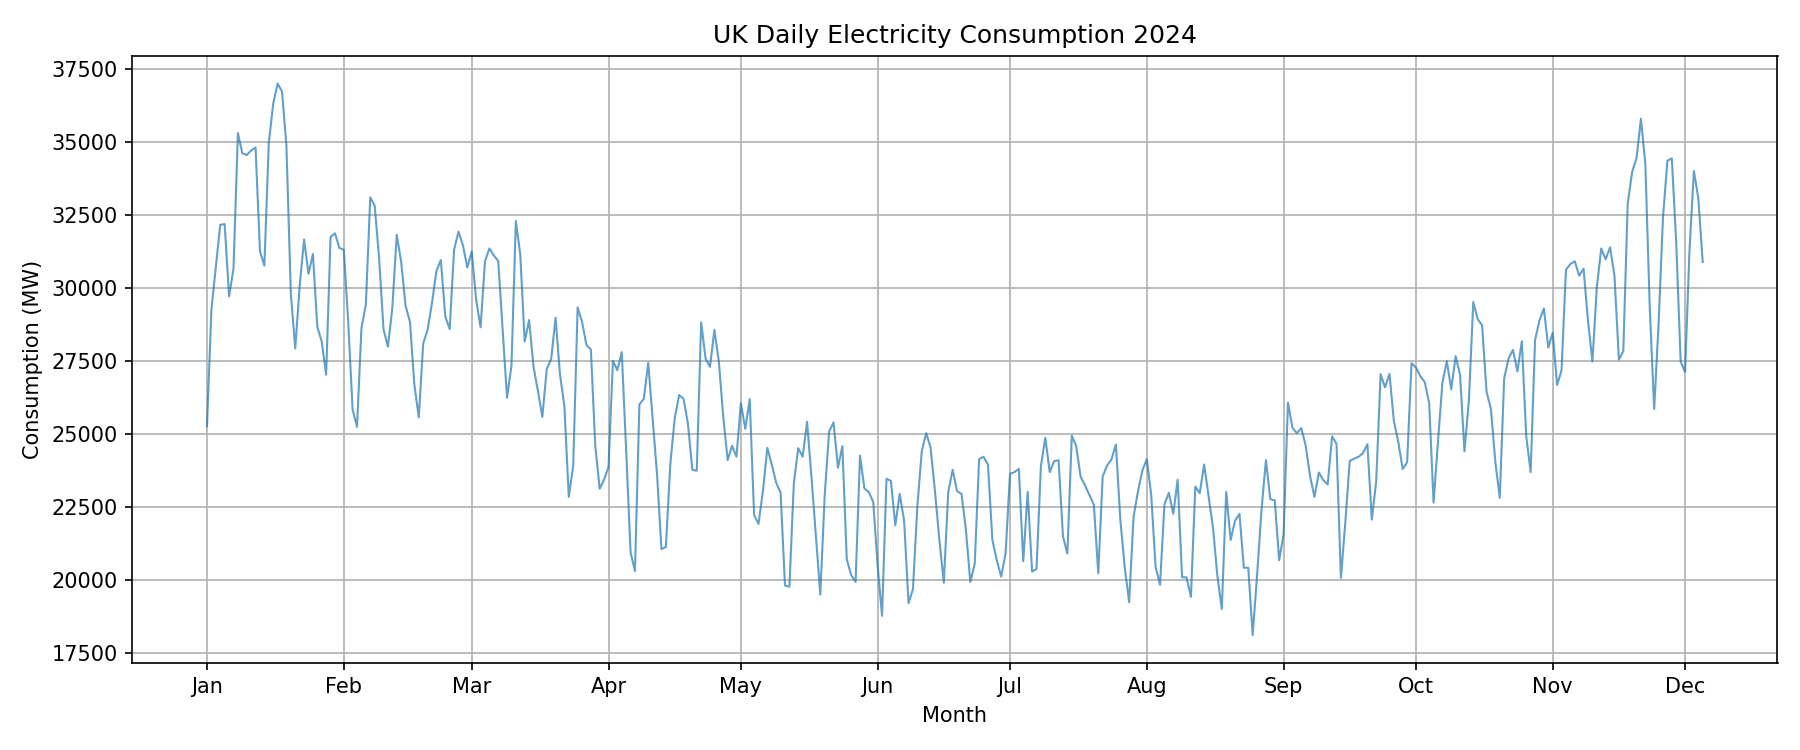
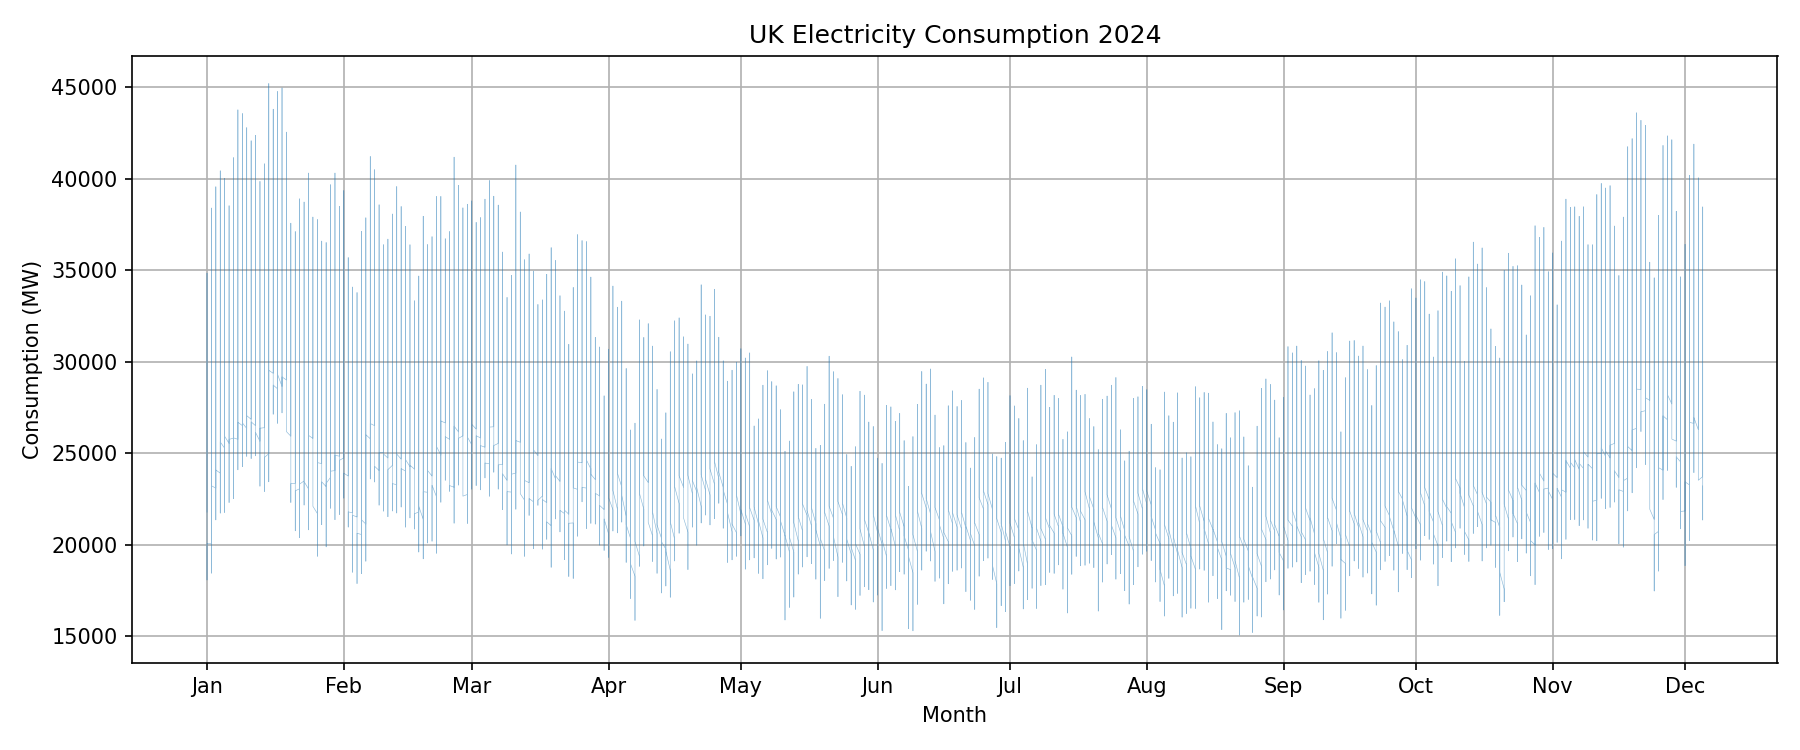
Refactor code to only look at 2024 data, and use 48 as period instead to capture the daily seasonality.

diff --git a/estimate_parameters.py b/estimate_parameters.py
@@ -2,43 +2,41 @@ import numpy as np
 import pandas as pd
 import matplotlib.pyplot as plt
 
-df = pd.read_csv("data/input/historic_demand_2009_2024.csv", parse_dates=["settlement_date"])
-daily_df = df.groupby("settlement_date")["nd"].mean().reset_index()
-daily_df.columns = ["date", "nd"]
-daily_df = daily_df.sort_values("date").reset_index(drop=True)
+d = 48
 
-# Trend m_t: yearly moving average (1.5.5 in the book)
-daily_df["trend"] = daily_df["nd"].rolling(window=365, center=True, min_periods=365).mean()
+df = pd.read_csv("data/input/historic_demand_year_2024.csv", parse_dates=["settlement_date"])
+df = df.sort_values(["settlement_date", "settlement_period"]).reset_index(drop=True)
 
-# W_k: mean detrended value per day-of-year
-daily_df["detrended"] = daily_df["nd"] - daily_df["trend"]
-daily_df["doy"] = daily_df["date"].dt.day_of_year
-W = daily_df.groupby("doy")["detrended"].mean()
+# Trend m_t: moving average over one full day (d=48) centered
+df["trend"] = df["nd"].rolling(window=d, center=True, min_periods=d).mean()
+
+# W_k: mean detrended value per settlement period (1–48)
+df["detrended"] = df["nd"] - df["trend"]
+W = df.groupby("settlement_period")["detrended"].mean()
 
 # s_k = W_k - mean(W)
 s = W - W.mean()
-daily_df["seasonality"] = daily_df["doy"].map(s)
+df["seasonality"] = df["settlement_period"].map(s)
 
 # Deseasonalized and residual
-daily_df["deseasonalized"] = daily_df["nd"] - daily_df["seasonality"]
-daily_df["residual"] = daily_df["nd"] - daily_df["trend"] - daily_df["seasonality"]
+df["deseasonalized"] = df["nd"] - df["seasonality"]
+df["residual"] = df["nd"] - df["trend"] - df["seasonality"]
 
 # --- Polynomial fit (degree 3) to deseasonalized data ---
-N = len(daily_df)
+N = len(df)
 t = np.arange(N) / (N - 1)
-mask = daily_df["deseasonalized"].notna()
-poly_coeffs = np.polyfit(t[mask], daily_df["deseasonalized"][mask], deg=3)
+mask = df["deseasonalized"].notna()
+poly_coeffs = np.polyfit(t[mask], df["deseasonalized"][mask], deg=3)
 poly_fit = np.polyval(poly_coeffs, t)
 
-# --- Harmonic fit (k=1) to seasonal component ---
-# s_t = a0 + a1*cos(2*pi*t/365) + b1*sin(2*pi*t/365)
-doy = daily_df["doy"].values
+# --- Harmonic fit (k=1) to seasonal component, period d=48 ---
+sp = df["settlement_period"].values
 X = np.column_stack([
-    np.ones(len(doy)),
-    np.cos(2 * np.pi * doy / 365),
-    np.sin(2 * np.pi * doy / 365),
+    np.ones(len(sp)),
+    np.cos(2 * np.pi * sp / d),
+    np.sin(2 * np.pi * sp / d),
 ])
-harm_coeffs, _, _, _ = np.linalg.lstsq(X, daily_df["seasonality"].values, rcond=None)
+harm_coeffs, _, _, _ = np.linalg.lstsq(X, df["seasonality"].values, rcond=None)
 harm_fit = X @ harm_coeffs
 
 # Format polynomial label with coefficients
@@ -50,45 +48,38 @@ poly_label = rf"$\hat{{m}}_t = {a0} {signed(a1)} t {signed(a2)} t^2 {signed(a3)}
 # Format harmonic label with coefficients
 h0, h1, b1 = [round(c) for c in harm_coeffs]
 harm_label = (
-    rf"$\hat{{s}}_t = {h0} {signed(h1)} \cdot \cos\!\left(\frac{{2\pi t}}{{365}}\right)"
-    rf" {signed(b1)} \cdot \sin\!\left(\frac{{2\pi t}}{{365}}\right)$"
+    rf"$\hat{{s}}_t = {h0} {signed(h1)} \cdot \cos\!\left(\frac{{2\pi t}}{{{d}}}\right)"
+    rf" {signed(b1)} \cdot \sin\!\left(\frac{{2\pi t}}{{{d}}}\right)$"
 )
+
+dates = df["settlement_date"]
+month_ticks = pd.date_range("2024-01-01", periods=12, freq="MS")
+month_labels = ["Jan","Feb","Mar","Apr","May","Jun","Jul","Aug","Sep","Oct","Nov","Dec"]
 
 # Deseasonalized with polynomial fit
 plt.figure(figsize=(14, 5))
-plt.plot(daily_df["date"], daily_df["deseasonalized"], linewidth=0.5, alpha=0.7, label="Deseasonalized data")
-plt.plot(daily_df["date"], poly_fit, linewidth=1.5, color="tab:red", label=poly_label)
-plt.xlabel("Year")
+plt.plot(dates, df["deseasonalized"], linewidth=0.3, alpha=0.5, label="Deseasonalized data")
+plt.plot(dates, poly_fit, linewidth=1.5, color="tab:red", label=poly_label)
+plt.xticks(ticks=month_ticks, labels=month_labels)
+plt.xlabel("Month")
 plt.ylabel("Consumption (MW)")
-plt.title("UK Daily Electricity Consumption 2009–2024 (Deseasonalized)")
-plt.legend()
+plt.title("UK Electricity Consumption 2024 (Deseasonalized)")
+leg = plt.legend()
+leg.legend_handles[0].set_linewidth(1.5)
 plt.grid(True)
 plt.tight_layout()
 plt.savefig("data/output/deseasonalized.png", dpi=150)
 plt.close()
 print("Saved to data/output/deseasonalized.png")
 
-# Seasonal component with harmonic fit
-plt.figure(figsize=(14, 5))
-plt.plot(daily_df["date"], daily_df["seasonality"], linewidth=0.5, alpha=0.7, label="Seasonal data")
-plt.plot(daily_df["date"], harm_fit, linewidth=1.5, color="tab:red", label=harm_label)
-plt.xlabel("Year")
-plt.ylabel("Consumption (MW)")
-plt.title("UK Daily Electricity Consumption 2009–2024 (Seasonal Component)")
-plt.legend()
-plt.grid(True)
-plt.tight_layout()
-plt.savefig("data/output/seasonality.png", dpi=150)
-plt.close()
-print("Saved to data/output/seasonality.png")
-
 # Residual
 plt.figure(figsize=(14, 5))
-plt.plot(daily_df["date"], daily_df["residual"], linewidth=0.5, alpha=0.7)
+plt.plot(dates, df["residual"], linewidth=0.3, alpha=0.5)
 plt.axhline(0, color="black", linewidth=0.8, linestyle="--")
-plt.xlabel("Year")
+plt.xticks(ticks=month_ticks, labels=month_labels)
+plt.xlabel("Month")
 plt.ylabel("Consumption (MW)")
-plt.title("UK Daily Electricity Consumption 2009–2024 (Residual)")
+plt.title("UK Electricity Consumption 2024 (Residual)")
 plt.grid(True)
 plt.tight_layout()
 plt.savefig("data/output/residual.png", dpi=150)

diff --git a/plot_demand.py b/plot_demand.py
@@ -2,37 +2,14 @@ import numpy as np
 import pandas as pd
 import matplotlib.pyplot as plt
 
-df = pd.read_csv("data/input/historic_demand_2009_2024.csv", parse_dates=["settlement_date"])
-
-daily_df = df.groupby("settlement_date")["nd"].mean().reset_index()
-daily_df.columns = ["date", "nd"]
-
-fig, ax1 = plt.subplots(1, 1, figsize=(14, 5))
-
-ax1.plot(daily_df["date"], daily_df["nd"], linewidth=0.5, alpha=0.7)
-ax1.set_xlabel("Year")
-ax1.set_ylabel("Consumption (MW)")
-ax1.set_title("UK Daily Electricity Consumption 2009–2024")
-ax1.grid(True)
-
-# ax2.plot(daily_df["date"], np.log(daily_df["nd"]), linewidth=0.5, alpha=0.7)
-# ax2.set_xlabel("Year")
-# ax2.set_ylabel("Consumption (MW)")
-# ax2.set_title("UK Daily Electricity Consumption 2009–2024 (Log Transformed)")
-# ax2.grid(True)
-
-plt.tight_layout()
-plt.savefig("data/output/demand_by_year.png", dpi=150)
-print("Saved to data/output/demand_by_year.png")
-
 df2024 = pd.read_csv("data/input/historic_demand_year_2024.csv", parse_dates=["settlement_date"])
-daily_df_2024 = df2024.groupby("settlement_date")["nd"].mean().reset_index()
+df2024 = df2024.sort_values(["settlement_date", "settlement_period"]).reset_index(drop=True)
 
 plt.figure(figsize=(12, 5))
-plt.plot(daily_df_2024["settlement_date"], daily_df_2024["nd"], linewidth=1.0, alpha=0.7)
+plt.plot(df2024["settlement_date"], df2024["nd"], linewidth=0.3, alpha=0.5)
 plt.xlabel("Month")
 plt.ylabel("Consumption (MW)")
-plt.title("UK Daily Electricity Consumption 2024")
+plt.title("UK Electricity Consumption 2024")
 plt.xticks(
     ticks=pd.date_range("2024-01-01", periods=12, freq="MS"),
     labels=["Jan","Feb","Mar","Apr","May","Jun","Jul","Aug","Sep","Oct","Nov","Dec"],
